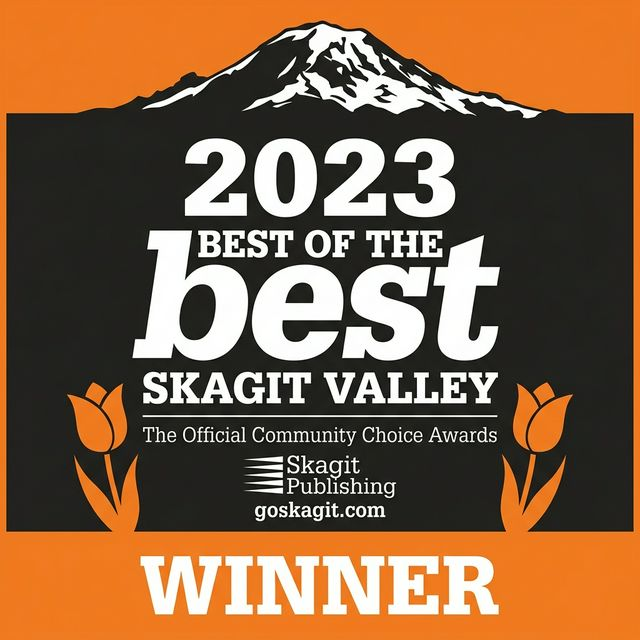
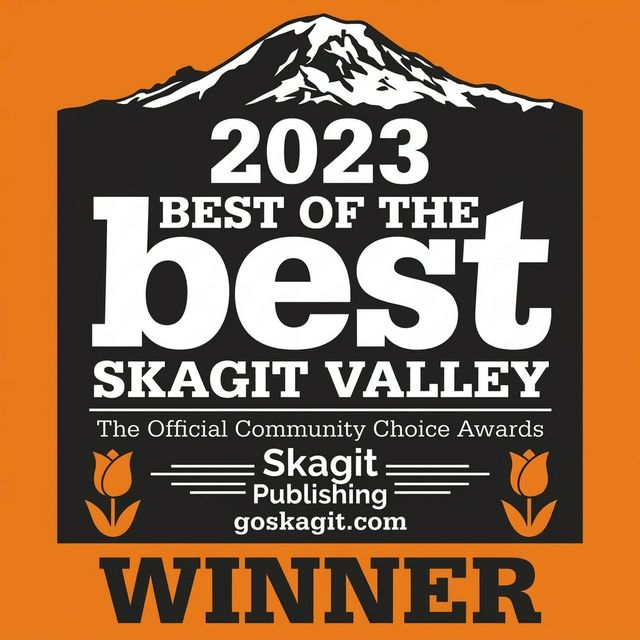
Fan badges + review buttons
Fan cards (homepage hero):
- Regenerated 2023/2024/2025 from single master template
  (all same size, layout, all-orange edges, zero whitespace)
- Removed border-radius from .fan-card (was causing ghost corners)

Review platform buttons:
- Changed from white/outlined to solid navy blue (--color-primary)
- Hover: gold accent border + text on dark navy bg

diff --git a/prospects/premier-electrical-svc/site/src/app/globals.css b/prospects/premier-electrical-svc/site/src/app/globals.css
@@ -193,13 +193,12 @@ p { max-width: 68ch; }
   position: absolute;
   bottom: 0;
   width: 108px;
-  border-radius: 4px;
   box-shadow: 0 6px 20px rgba(0,0,0,0.55);
   transform-origin: bottom center;
 }
-.fan-card--back  { left: 0;   transform: rotate(-16deg) translateX(-8px); z-index: 1; opacity: 0.88; }
+.fan-card--back  { left: 0;   transform: rotate(-15deg) translateX(-8px); z-index: 1; opacity: 0.9; }
 .fan-card--mid   { left: 50%; transform: translateX(-50%) rotate(-4deg);   z-index: 2; }
-.fan-card--front { right: 0;  transform: rotate(9deg) translateX(8px);     z-index: 3; }
+.fan-card--front { right: 0;  transform: rotate(8deg) translateX(8px);     z-index: 3; }
 .hero-award-fan-label {
   margin-top: 14px;
   font-size: 0.72rem;
@@ -658,17 +657,17 @@ p { max-width: 68ch; }
 .review-platform-btn {
   display: inline-flex; align-items: center; gap: 8px;
   padding: 10px 20px;
-  background: var(--color-surface);
-  border: 1.5px solid var(--color-border);
+  background: var(--color-primary);
+  border: 1.5px solid var(--color-primary);
   border-radius: var(--radius-sm);
   font-size: 0.82rem; font-weight: 700;
-  color: var(--color-primary);
+  color: #fff;
   transition: all var(--transition-fast);
 }
 .review-platform-btn:hover {
+  background: var(--color-primary-light, #0d2040);
   border-color: var(--color-accent);
   color: var(--color-accent);
-  background: var(--color-accent-light);
   transform: translateY(-2px);
 }
 
